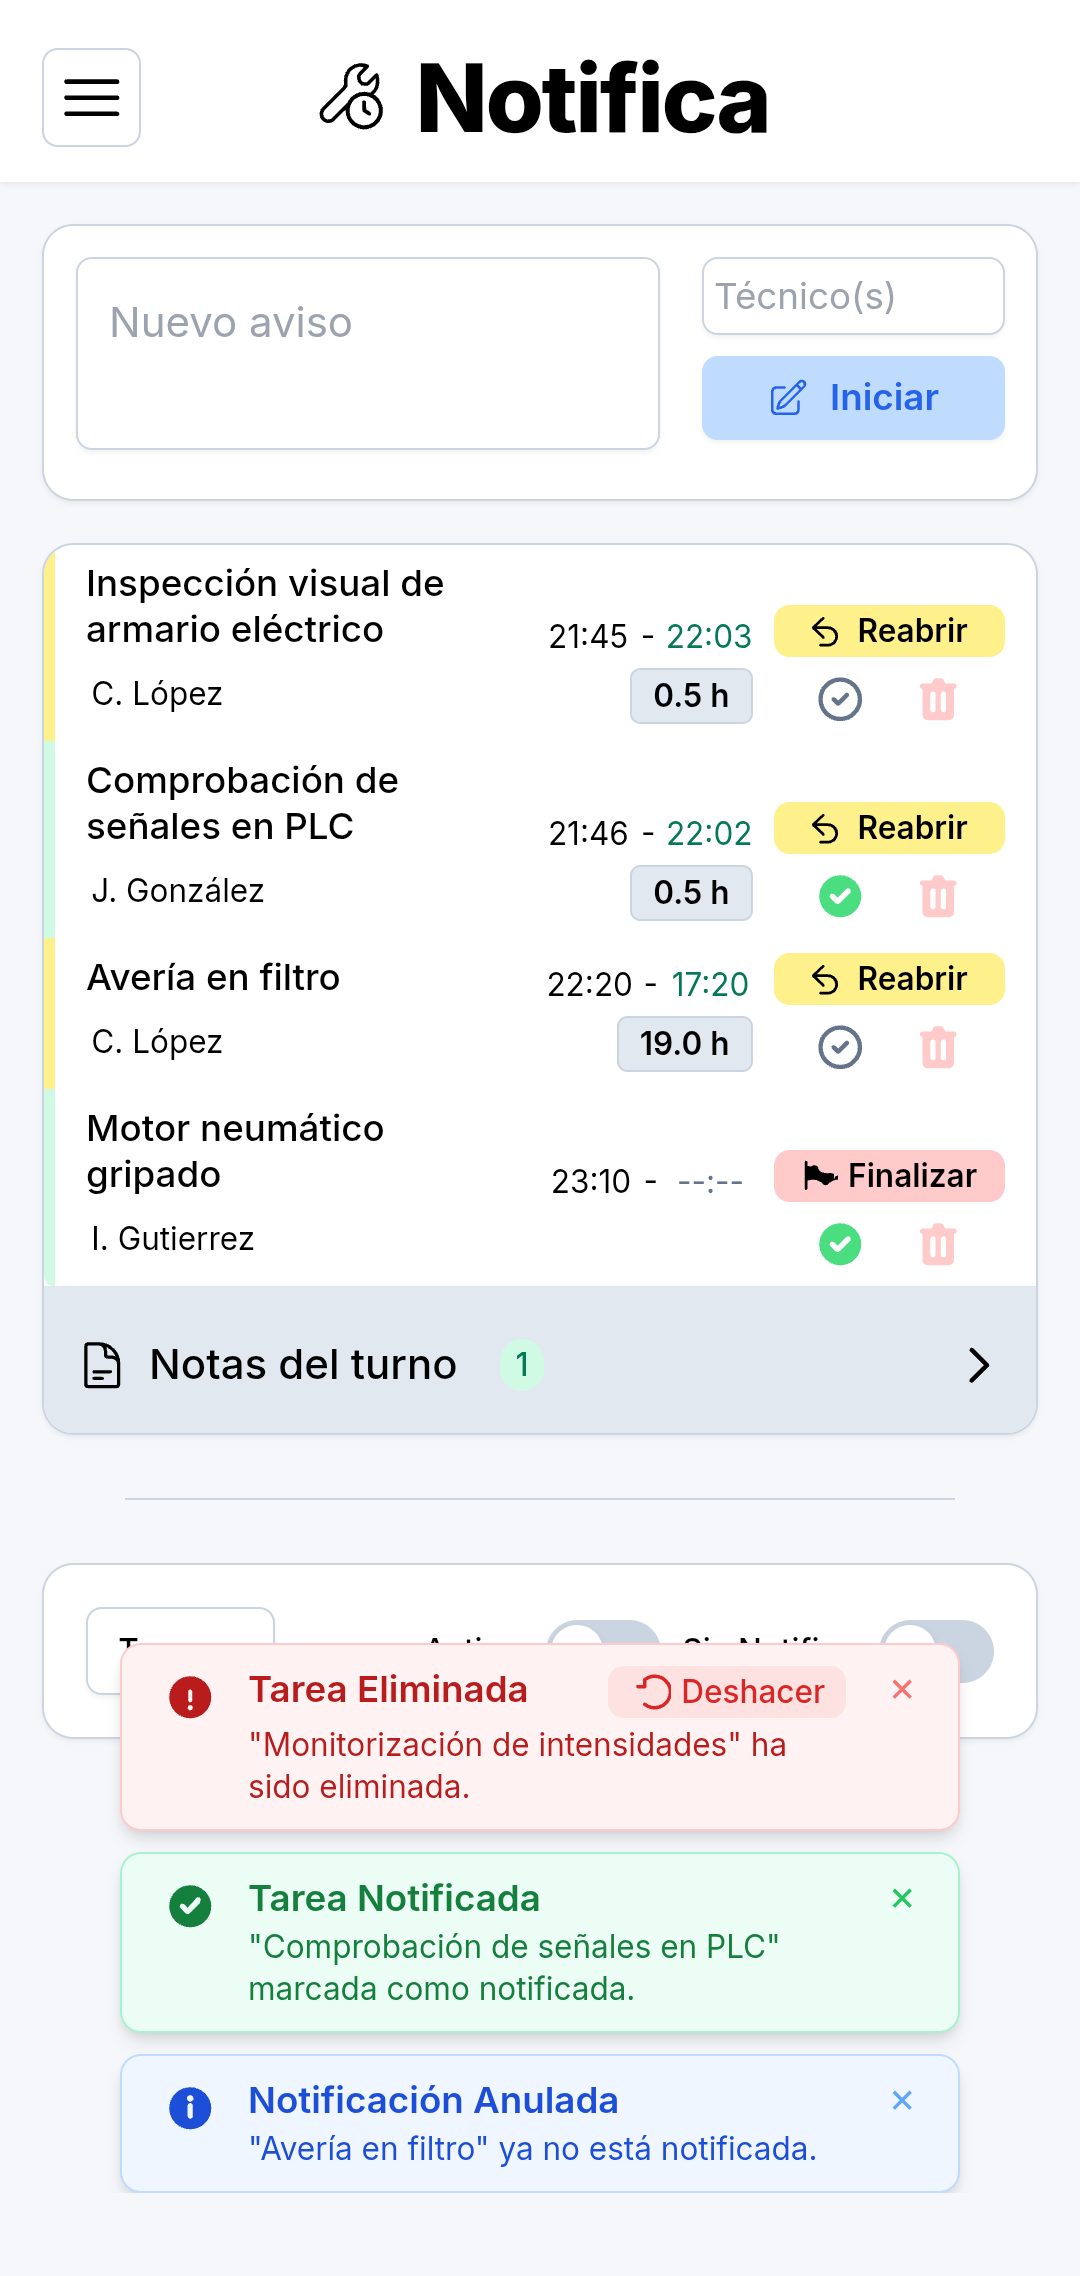
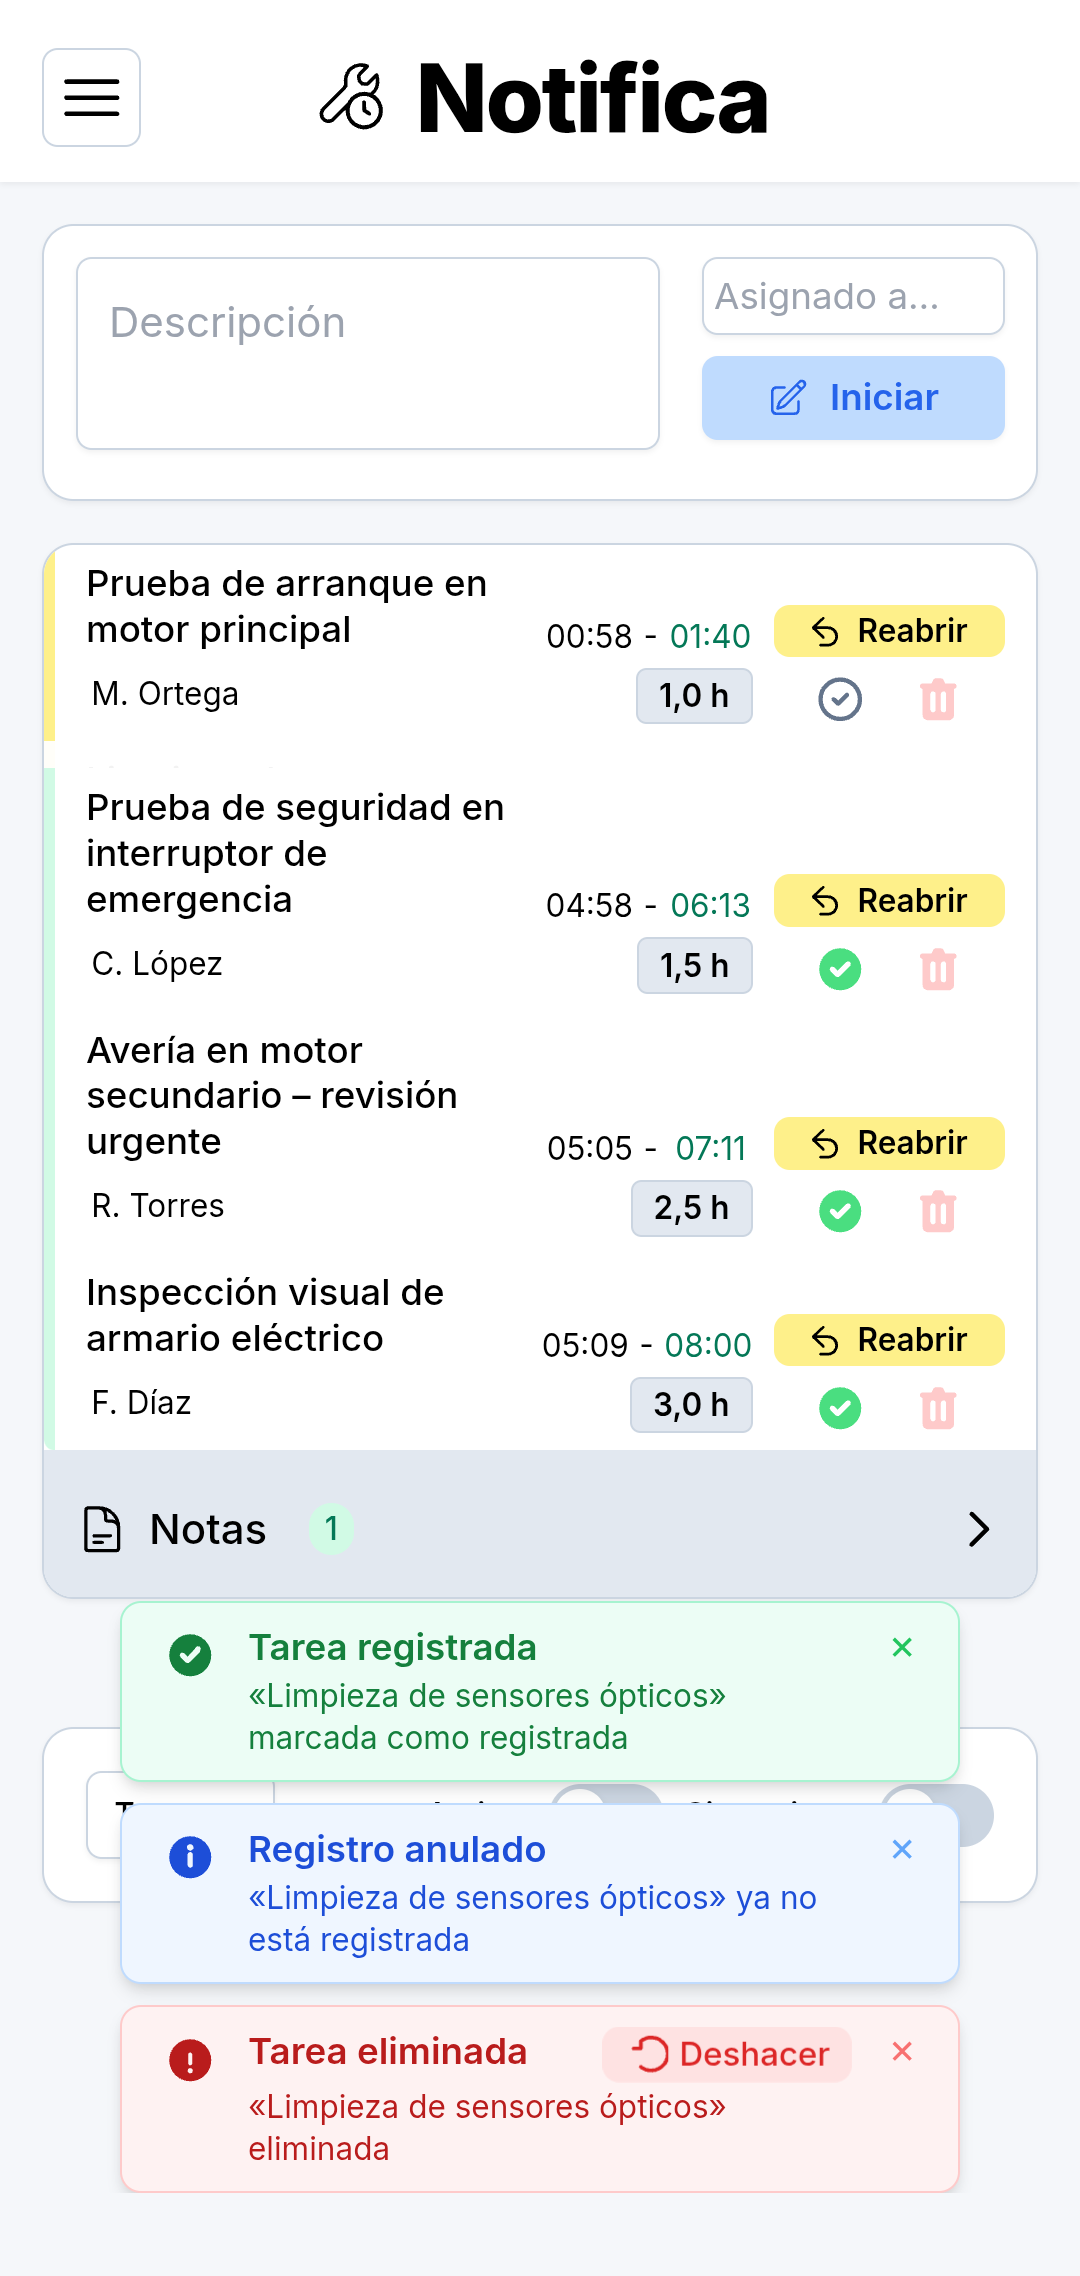
chore: actualiza capturas oficiales en screenshots y screenshots-playstore, marca tarea de roadmap como completada

diff --git a/docs/dev/Notifica-Roadmap.md b/docs/dev/Notifica-Roadmap.md
@@ -872,8 +872,8 @@ App web tipo PWA para registrar tareas laborales de forma ágil, sin conexión y
   - [x] Aprovechar el periodo de test activo para seguir refinando el resto de tareas de la Etapa 8
   - [x] Solicitar acceso a producción en Google Play Console tras completar test cerrado [01/09/2025-0:50]
   - [x] Crear utilidad para generar datos mock (script + listas) para capturas y pruebas
-  - [ ] Actualizar todas las capturas en `/public/screenshots/` (README, manifest, Play Store) antes de la próxima versión estable de Android
-  - [ ] Actualizar ficha Play Store con nueva(s) feat (rewording, multidioma, etc) y lanzar actualizacion.
+  - [x] Actualizar todas las capturas en `/public/screenshots/` (README, manifest, Play Store) antes de la próxima versión estable de Android
+  - [ ] Actualizar ficha Play Store con nueva(s) feat (rewording, multidioma, capturas, etc) y lanzar actualizacion.
   - [ ] (Opcional) Probar app para tablet y hacer capturas para PlayStore.
   - [ ] (Opcional) Preparar mensaje atractivo para captar testers externos voluntarios
   - [ ] (Opcional) Publicar el mensaje en canales adecuados:
